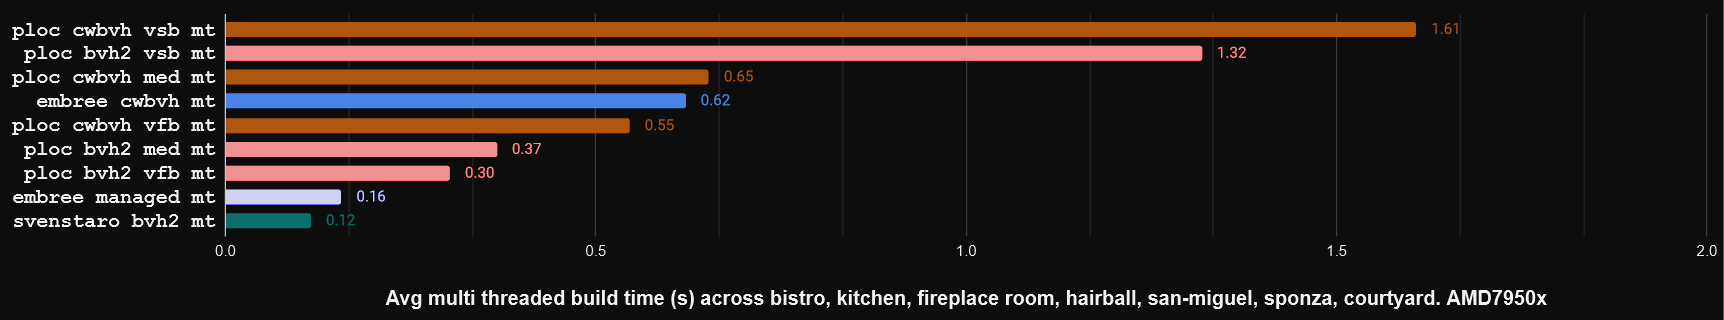
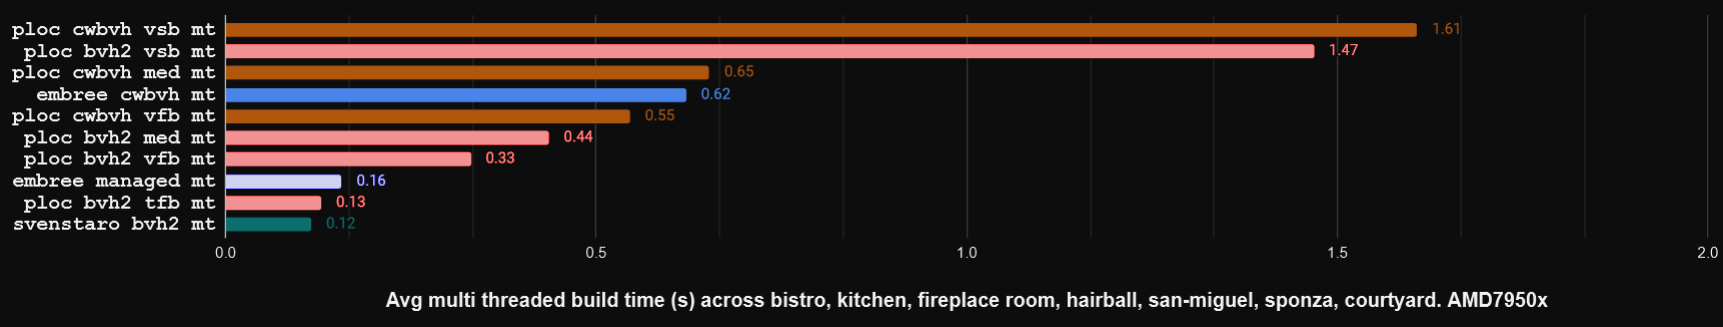
setup tuner for prim per leaf counts, add tfb

diff --git a/src/auto_tune.rs b/src/auto_tune.rs
@@ -12,16 +12,20 @@ pub fn tune(init_options: Options, mut event_loop: winit::event_loop::EventLoop<
         Some(HashMap::new())
     };
     let mut results = Vec::new();
-    let splits = [false, true];
-    let search_distances = [1, 6, 14, 32];
-    let sort_precisions = [64, 128];
-    let reinsertion_batch_ratios = [0.5, 0.2, 0.1, 0.01, 0.005, 0.001, 0.0];
-    let search_depth_thresholds = [0, 1, 2, 3, 4, 5];
+    let splits = [false];
+    let search_distances = [14];
+    let sort_precisions = [64];
+    let reinsertion_batch_ratios = [0.1];
+    let search_depth_thresholds = [0];
+    let max_prims_per_leaf = [1, 3, 6, 8, 12];
+    let collapse_traversal_cost = [1.0, 2.0, 3.0, 4.0, 8.0, 12.0];
     let permutations = splits.len()
         * search_distances.len()
         * sort_precisions.len()
         * reinsertion_batch_ratios.len()
-        * search_depth_thresholds.len();
+        * search_depth_thresholds.len()
+        * max_prims_per_leaf.len()
+        * collapse_traversal_cost.len();
     {
         // Warmup. If skipped the first permutation or so may be faster because the clock speed has not normalized.
         let (_, _, _) = render_from_options(&init_options, &mut event_loop, &mut model_cache);
@@ -36,48 +40,59 @@ pub fn tune(init_options: Options, mut event_loop: winit::event_loop::EventLoop<
             for sort_precision in sort_precisions {
                 for reinsertion_batch_ratio in reinsertion_batch_ratios {
                     for search_depth_threshold in search_depth_thresholds {
-                        let mut options = init_options.clone();
+                        for max_prims_per_leaf in max_prims_per_leaf {
+                            for collapse_traversal_cost in collapse_traversal_cost {
+                                let mut options = init_options.clone();
 
-                        options.search_distance = search_distance;
-                        options.search_depth_threshold = search_depth_threshold;
-                        options.sort_precision = sort_precision;
-                        options.reinsertion_batch_ratio = reinsertion_batch_ratio;
-                        options.split = split;
+                                options.split = split;
+                                options.search_distance = search_distance;
+                                options.sort_precision = sort_precision;
+                                options.reinsertion_batch_ratio = reinsertion_batch_ratio;
+                                options.search_depth_threshold = search_depth_threshold;
+                                options.max_prims_per_leaf = max_prims_per_leaf;
+                                options.collapse_traversal_cost = collapse_traversal_cost;
 
-                        let (avg_traversal_time, avg_blas_build_time, avg_tlas_build_time) =
-                            render_from_options(&options, &mut event_loop, &mut model_cache);
-                        best_avg_traversal_time = best_avg_traversal_time.min(avg_traversal_time);
-                        best_avg_blas_build_time =
-                            best_avg_blas_build_time.min(avg_blas_build_time);
-                        best_avg_tlas_build_time =
-                            best_avg_tlas_build_time.min(avg_tlas_build_time);
+                                let (avg_traversal_time, avg_blas_build_time, avg_tlas_build_time) =
+                                    render_from_options(&options, &mut event_loop, &mut model_cache);
+                                best_avg_traversal_time =
+                                    best_avg_traversal_time.min(avg_traversal_time);
+                                best_avg_blas_build_time =
+                                    best_avg_blas_build_time.min(avg_blas_build_time);
+                                best_avg_tlas_build_time =
+                                    best_avg_tlas_build_time.min(avg_tlas_build_time);
 
-                        results.push(TuningSet {
-                            search_distance,
-                            sort_precision,
-                            reinsertion_batch_ratio,
-                            search_depth_threshold,
-                            avg_traversal_time,
-                            avg_blas_build_time,
-                            avg_tlas_build_time,
-                            split,
-                            norm_best_blas_build_time: 0.0,
-                            norm_best_tlas_build_time: 0.0,
-                            norm_best_traversal_time: 0.0,
-                        });
+                                results.push(TuningSet {
+                                    search_distance,
+                                    sort_precision,
+                                    reinsertion_batch_ratio,
+                                    search_depth_threshold,
+                                    avg_traversal_time,
+                                    avg_blas_build_time,
+                                    avg_tlas_build_time,
+                                    split,
+                                    max_prims_per_leaf,
+                                    collapse_traversal_cost,
+                                    norm_best_blas_build_time: 0.0,
+                                    norm_best_tlas_build_time: 0.0,
+                                    norm_best_traversal_time: 0.0,
+                                });
 
-                        let elapsed_time = test_start_time.elapsed().as_secs_f32();
-                        let avg_permutation_duration = elapsed_time / (results.len() as f32);
-                        let expected_remaining_duration =
-                            (permutations - results.len()) as f32 * avg_permutation_duration;
+                                let elapsed_time = test_start_time.elapsed().as_secs_f32();
+                                let avg_permutation_duration =
+                                    elapsed_time / (results.len() as f32);
+                                let expected_remaining_duration = (permutations - results.len())
+                                    as f32
+                                    * avg_permutation_duration;
 
-                        println!(
-                            "Expected Remaining Duration: {}",
-                            seconds_to_hh_mm_ss(expected_remaining_duration)
-                        );
-                        println!("Avg permutation time: {:.2}s", avg_permutation_duration);
-                        println!("Time elapsed: {}", seconds_to_hh_mm_ss(elapsed_time));
-                        println!("{} / {}", results.len(), permutations);
+                                println!(
+                                    "Expected Remaining Duration: {}",
+                                    seconds_to_hh_mm_ss(expected_remaining_duration)
+                                );
+                                println!("Avg permutation time: {:.2}s", avg_permutation_duration);
+                                println!("Time elapsed: {}", seconds_to_hh_mm_ss(elapsed_time));
+                                println!("{} / {}", results.len(), permutations);
+                            }
+                        }
                     }
                 }
             }
@@ -109,12 +124,12 @@ pub fn tune(init_options: Options, mut event_loop: winit::event_loop::EventLoop<
         "{}",
         Table::new(&blas_filtered_results).with(Style::blank())
     );
-    save_results(&results);
-    save_results(&blas_filtered_results);
-    save_results(&tlas_filtered_results);
+    save_results("results", &results);
+    save_results("blas_filtered_results", &blas_filtered_results);
+    save_results("tlas_filtered_results", &tlas_filtered_results);
 
-    fn save_results(tlas_filtered_results: &[TuningSet]) {
-        match save_tuning_results_to_csv(&tlas_filtered_results, "tlas_filtered_results") {
+    fn save_results(name: &str, tlas_filtered_results: &[TuningSet]) {
+        match save_tuning_results_to_csv(&tlas_filtered_results, name) {
             Ok(filename) => println!("CSV file saved successfully as '{}'.", filename),
             Err(e) => eprintln!("Error saving CSV file: {}", e),
         }
@@ -133,6 +148,10 @@ struct TuningSet {
     reinsertion_batch_ratio: f32,
     /// Below this depth a search distance of 1 will be used
     search_depth_threshold: usize,
+    /// Maximum primitives per leaf. For CWBVH the limit is 3
+    max_prims_per_leaf: u32,
+    /// Multiplier for traversal cost calculation during collapse. A higher value will result in more primitives per leaf.
+    collapse_traversal_cost: f32,
     /// Average of the traversal times for all the scene for these settings
     avg_traversal_time: f32,
     /// Average of the builds times for all the scene for these settings
@@ -165,11 +184,12 @@ fn save_tuning_results_to_csv(
         "sort_precision",
         "reinsertion_batch_ratio",
         "search_depth_threshold",
+        "max_prims_per_leaf",
+        "collapse_traversal_cost",
         "avg_traversal_time",
         "avg_blas_build_time",
         "avg_tlas_build_time",
         "norm_best_traversal_time",
-        "norm_best_build_time",
         "norm_best_blas_build_time",
         "norm_best_tlas_build_time",
     ])?;
@@ -182,6 +202,8 @@ fn save_tuning_results_to_csv(
             tuning_set.sort_precision.to_string(),
             tuning_set.reinsertion_batch_ratio.to_string(),
             tuning_set.search_depth_threshold.to_string(),
+            tuning_set.max_prims_per_leaf.to_string(),
+            tuning_set.collapse_traversal_cost.to_string(),
             tuning_set.avg_traversal_time.to_string(),
             tuning_set.avg_blas_build_time.to_string(),
             tuning_set.avg_tlas_build_time.to_string(),

diff --git a/src/main.rs b/src/main.rs
@@ -113,9 +113,15 @@ pub struct Options {
     )]
     reinsertion_batch_ratio: f32,
     #[structopt(
+        long,
+        default_value = "0.0",
+        help = "For BVH2 only, a second pass of reinsertion after collapse. Since collapse reduces the node count, this reinsertion pass will be faster. 0 to disable. Relative to the initial reinsertion_batch_ratio."
+    )]
+    post_collapse_reinsertion_batch_ratio_multiplier: f32,
+    #[structopt(
         long, 
         default_value = "", 
-        possible_values  = &["", "very_fast_build", "fast_build", "medium_build", "slow_build", "very_slow_build"], 
+        possible_values  = &["", "fastest_build", "very_fast_build", "fast_build", "medium_build", "slow_build", "very_slow_build"], 
         help = "Overrides BVH build options.")
     ]
     preset: String,
@@ -146,6 +152,12 @@ pub struct Options {
         help = "Use tlas building/traversal path but flatten model into 1 blas."
     )]
     flatten_blas: bool,
+    #[structopt(
+        long,
+        default_value = "1.0",
+        help = "Multiplier for traversal cost calculation during collapse. A higher value will result in more primitives per leaf."
+    )]
+    collapse_traversal_cost: f32,
 }
 
 pub fn main() {
@@ -441,6 +453,7 @@ fn load_meshs(model_path: &Path) -> Vec<Vec<Triangle>> {
 
 fn build_params_from_options(options: &Options) -> BvhBuildParams {
     match options.preset.as_str() {
+        "fastest_build" => BvhBuildParams::fastest_build(),
         "very_fast_build" => BvhBuildParams::very_fast_build(),
         "fast_build" => BvhBuildParams::fast_build(),
         "medium_build" => BvhBuildParams::medium_build(),
@@ -457,6 +470,8 @@ fn build_params_from_options(options: &Options) -> BvhBuildParams {
                 _ => panic!("Unsupported sort precision"),
             },
             max_prims_per_leaf: options.max_prims_per_leaf,
+            post_collapse_reinsertion_batch_ratio_multiplier: options.post_collapse_reinsertion_batch_ratio_multiplier,
+            collapse_traversal_cost: options.collapse_traversal_cost,
         },
     }
 }

diff --git a/README.md b/README.md
@@ -11,7 +11,7 @@ Ray Tracing / BVH Building benchmark and tuning utility for [OBVHS](https://gith
 GPU timings are via GPU timestamp queries with locked clocks. 
 
 Notes:
-- vfb/med/vsb are presets in [OBVHS](https://github.com/DGriffin91/obvhs). vfb: very_fast_build, med: medium_build, vsb: very_slow_build. 
+- tfb/vfb/med/vsb are presets in [OBVHS](https://github.com/DGriffin91/obvhs). tfb: fastest_build, vfb: very_fast_build, med: medium_build, vsb: very_slow_build. 
 - Embree CWBVH uses a BVH8 builder with `RTCBuildQuality::HIGH`. 
 - Embree managed is limited to SSE2 as OBVHS does not yet have AVX support. (Embree managed is a bit faster with AVX but not dramatically. OBVHS will eventually also add AVX support)
 ![cpu_traversal_bench](results/cpu_traversal_bench.PNG)
@@ -65,10 +65,14 @@ OPTIONS:
             `demoscene` for included procedurally generated scene.
         --max-prims-per-leaf <max-prims-per-leaf>
             Maximum primitives per leaf. For CWBVH the limit is 3 [default: 3]
-            
+
+        --post-collapse-reinsertion-batch-ratio-multiplier <post-collapse-reinsertion-batch-ratio-multiplier>
+            For BVH2 only, a second pass of reinsertion after collapse. Since collapse reduces the node count, this
+            reinsertion pass will be faster. 0 to disable. Relative to the initial reinsertion_batch_ratio. [default:
+            0.0]
         --preset <preset>
-            Overrides BVH build options. [default: ]  [possible values: , very_fast_build, fast_build, medium_build,
-            slow_build, very_slow_build]
+            Overrides BVH build options. [default: ]  [possible values: , fastest_build, very_fast_build, fast_build,
+            medium_build, slow_build, very_slow_build]
     -r <reinsertion-batch-ratio>
             Typically 0..1: ratio of nodes considered as candidates for reinsertion. Above 1 to evaluate the whole set
             multiple times. A little goes a long way. Try 0.01 or even 0.001 before disabling for build performance.
@@ -89,4 +93,4 @@ OPTIONS:
         --height <height>                                    Render resolution height. [default: 1080]
 ```
 
-MIT & APACHE 2.0 Licenses don't apply to assets.
+MIT & Apache 2.0 Licenses don't apply to assets.
